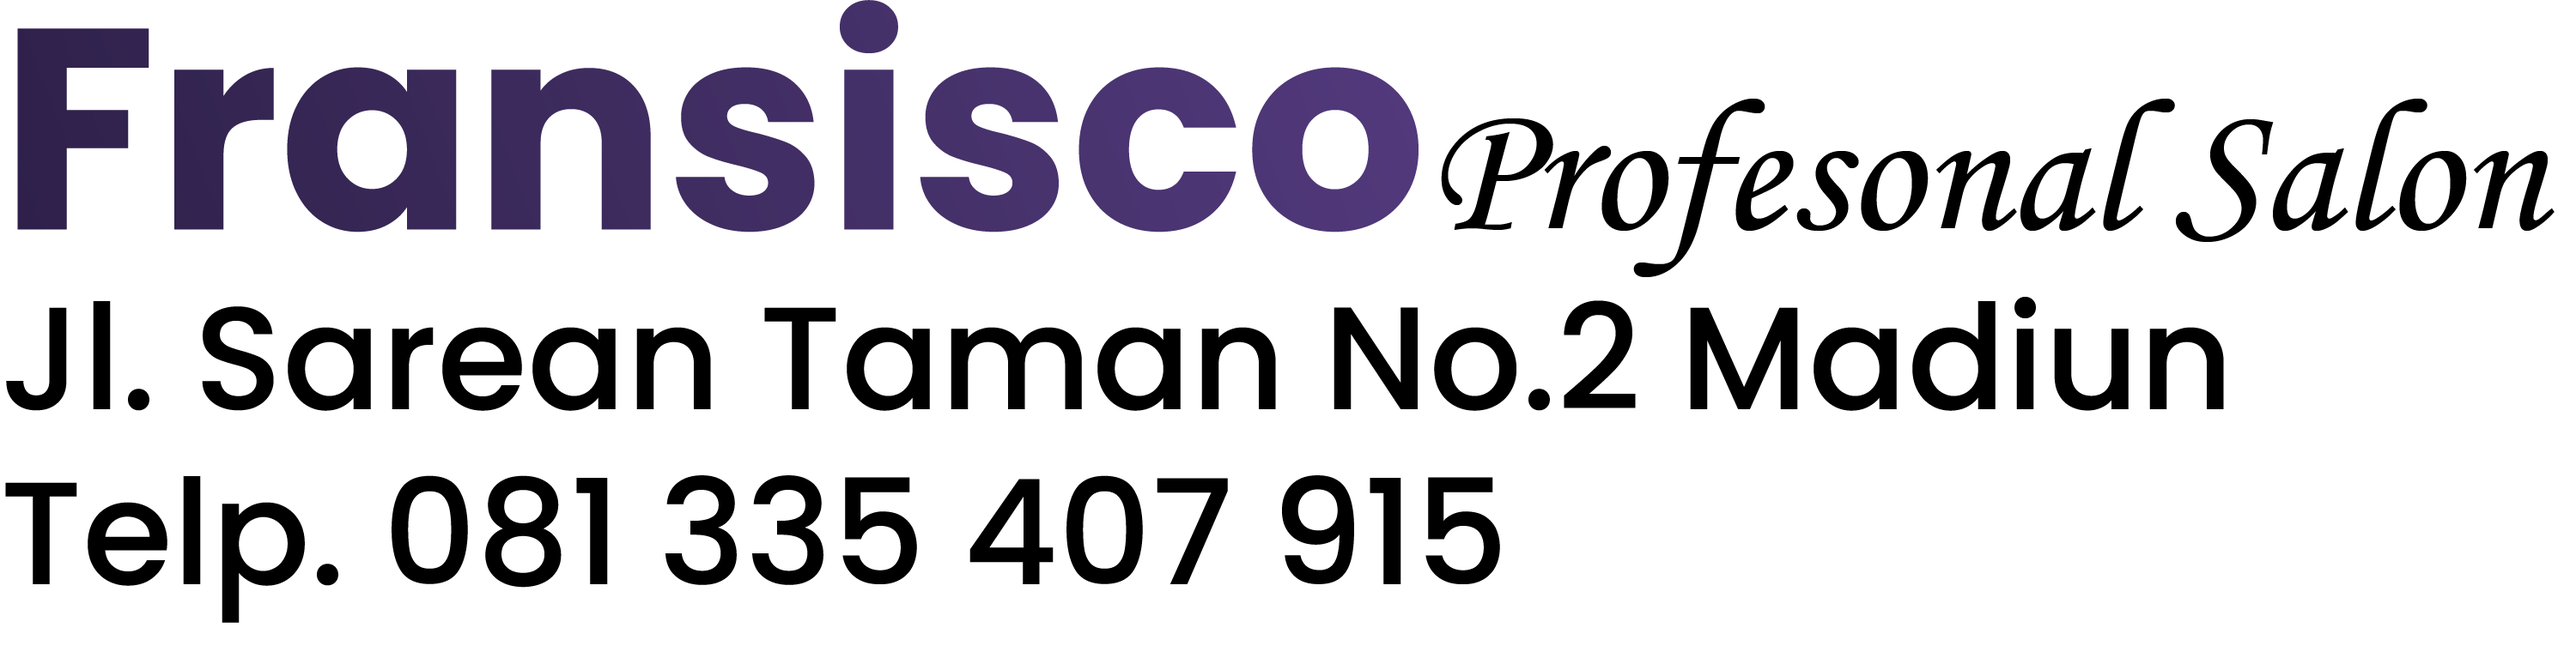
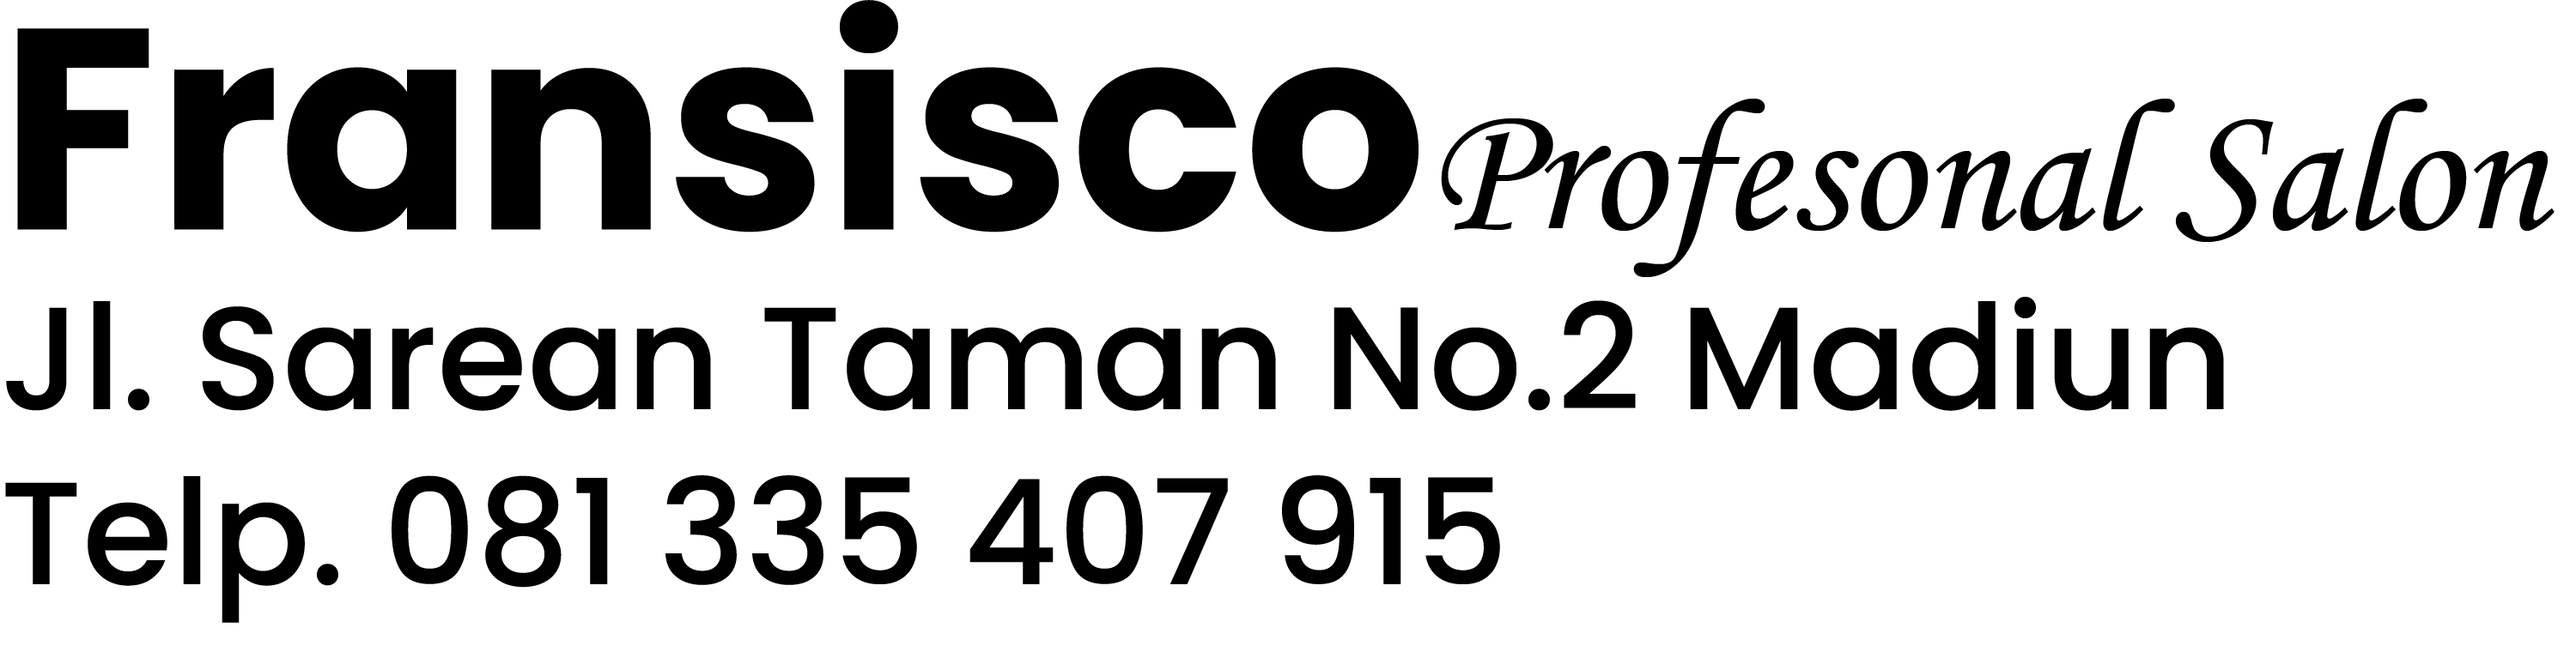
mm

Changed region(s): [[0.0, 0.0, 0.558, 0.3688]]

diff --git a/resources/views/print2.blade.php b/resources/views/print2.blade.php
@@ -20,7 +20,7 @@
         }
 
         .bill {
-            width: 200px;
+            width: 300px;
             /* box-shadow: 0 0 3px #aaa; */
             box-sizing: border-box;
         }
@@ -35,17 +35,23 @@
 
         .table {
             border-collapse: collapse;
-            width: 100%;
+            /* width: 100%; */
+            /* table-layout: auto; */
+  width: 100%;
         }
 
         .table .header {
-            border-top: 2px dashed #000;
-            border-bottom: 2px dashed #000;
+            border-top: 1px dashed #000;
+            /* font-style: normal; */
+            border-bottom: 1px dashed #000;
             margin-bottom: 5px;
         }
 
         .table {
             text-align: left;
+        }
+        .th{
+            font-weight: normal;
         }
 
         .table .total td:first-of-type {
@@ -54,8 +60,8 @@
         }
 
         .table .total td {
-            border-top: 2px dashed #000;
-            border-bottom: 2px dashed #000;
+            border-top: 1px dashed #000;
+            border-bottom: 1px dashed #000;
         }
 
         .table .net-amount td:first-of-type {
@@ -63,11 +69,11 @@
         }
 
         .table .net-amount td {
-            border-top: 2px dashed #000;
+            border-top: 1px dashed #000;
         }
 
         .table .net-amount {
-            border-bottom: 2px dashed #000;
+            border-bottom: 1px dashed #000;
         }
 
         @media print {
@@ -107,48 +113,47 @@
 
 <body>
     <div class="bill">
-        <div class="brand">
+        <div class="brand" style=" width: 100%;font-size:10px;">
 
-            <strong> Fransisco </strong>
+            {{-- <strong> Fransisco </strong>
             <span style="font-size: 7px;">
-
                 Profesonal Salon
-            </span>
+            </span> --}}
+            <img src="/assets/img/nota.png" style="max-width: 180px;filter: grayscale(100%);
+            height: auto;" alt="" srcset="">
 
 
         </div>
-        <div class="address" style="font-size: 7px;">
-            Jl. Sarean Taman No.2 Madiun
-        </div>
-        <div class="shop-details" style="font-size: 7px;">
-            Telp. 081 335 407 915
-        </div>
+
         <hr>
 
-        <div> </div>
+        {{-- <div> </div> --}}
         <div class="bill-details" style="font-size: 10px;margin-bottom: 5px;">
             <div class="flex justify-between" style="">
                 <div>NOTA NO : {{ $data->manufaktur }}</div>
                 {{-- <div>TABLE NO: 091</div> --}}
             </div>
             <div class="flex justify-between">
-                <div>TANGGAL : {{ $data->tanggal }}</div>
+                <div>TANGGAL : {{ $data->created_at->format('d F Y ') }}</div>
                 {{-- <div>TIME: 14:10</div> --}}
             </div>
 
         </div>
         <table class="table">
             <tr class="header">
-                <th style="width: 20%">
+                <th style="width: 5%; font-weight: normal;">
+                    No
+                </th>
+                <th style="width: 20%; font-weight: normal;">
                     Layanan
                 </th>
-                <th style="width: 35%">
+                <th style="width: 30%; font-weight: normal;">
                     Harga
                 </th>
-                <th style="width: 5%">
+                <th style="width: 5%; font-weight: normal;">
                     Qty
                 </th>
-                <th style="text-align: end; width: 40%">
+                <th style="text-align: end; width: 40%; font-weight: normal;">
                     Subtotal
                 </th>
             </tr>
@@ -164,8 +169,12 @@
                 <th></th>
 
             </tr>
+            @php
+                $no =1;
+            @endphp
             @foreach ($data->layananRelasiDetail as $key)
                 <tr>
+                    <td>{{$no++}}</td>
                     <td>{{ $key->detailRelasiJasa->nama_jasa }}</td>
                     <td>Rp. {{ number_format($key->harga) }}</td>
                     <td style="text-align: center;">{{ $key->jumlah }}</td>
@@ -187,19 +196,24 @@
 
             </tr>
             <tr class="total" style="margin-top: 2px">
-                <td></td>
+                {{-- <td></td> --}}
+                {{-- <td></td> --}}
+                <td colspan="2"></td>
                 <td>Total</td>
                 <td style="text-align: center;">{{ $data->layananRelasiDetail->sum('jumlah') }}</td>
                 <td style="text-align: end;">Rp. {{ number_format($data->total) }}</td>
+
             </tr>
             <tr>
-                <td></td>
+                {{-- <td></td> --}}
+                <td colspan="2"></td>
                 <td>Tunai</td>
                 <td></td>
                 <td style="text-align: end;">Rp. {{ number_format($bayar) }}</td>
             </tr>
             <tr class="net-amount">
-                <td></td>
+                {{-- <td></td> --}}
+                <td colspan="2"></td>
                 <td>Kembali</td>
                 <td></td>
                 <td style="text-align: end;">Rp. {{ number_format($kembalian) }}</td>
